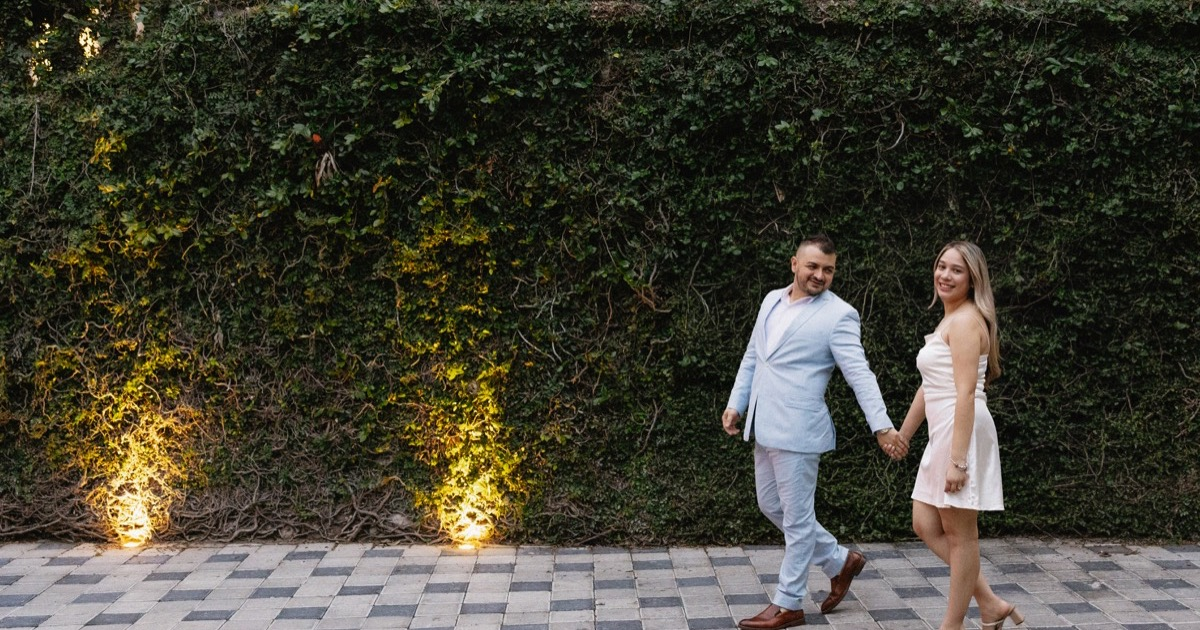
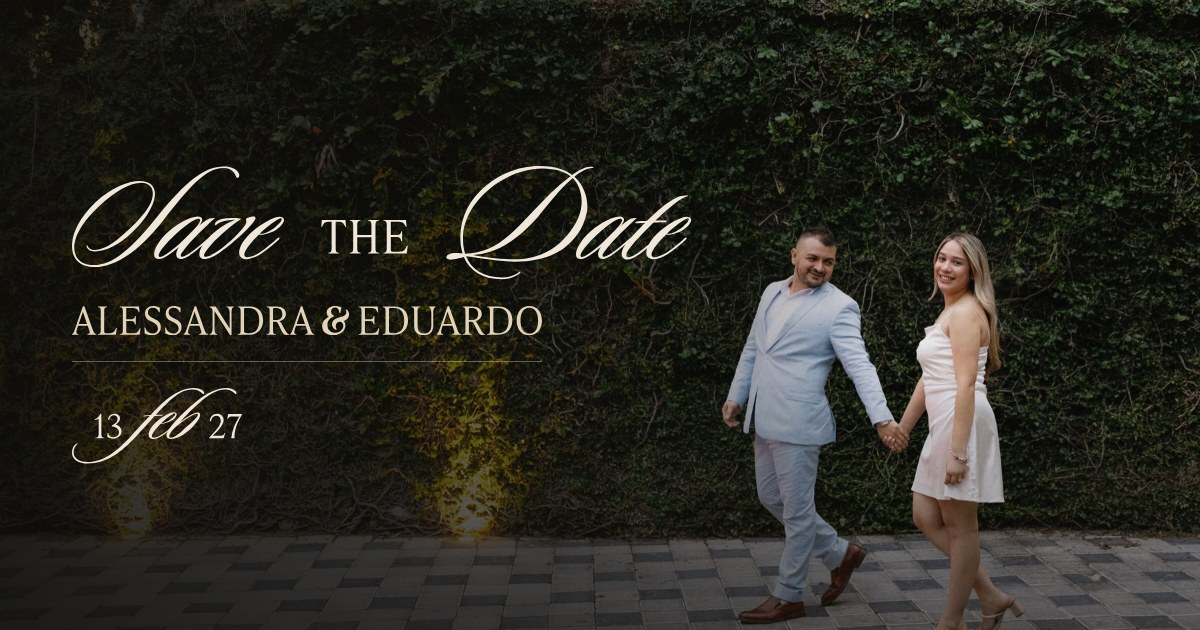
feat(boda): imagen para compartir con el Save the Date y entrada de «Así somos»
- public/fotos/compartir.jpg (1200×630): la foto de la portada con el Save
  the Date, los nombres y la fecha del diseñador. Sale de
  scripts/imagen-compartir.mjs; volver a correrlo si cambian.
- Así somos: título y fotos entran como tinta, una tras otra, con un
  destello que cruza cada foto.

diff --git a/boda/src/components/GaleriaHorizontal.jsx b/boda/src/components/GaleriaHorizontal.jsx
@@ -1,4 +1,4 @@
-import { useRef, useState } from 'react';
+import { useEffect, useRef, useState } from 'react';
 import { t } from '../lib/idioma';
 import Visor from './Visor';
 import { imagenAdaptable, conAncho, ANCHOS_GALERIA } from '../lib/fotos';
@@ -12,6 +12,17 @@ export default function GaleriaHorizontal({ titulo, fotos }) {
   const barra = useRef(null);
   const [abierta, setAbierta] = useState(null);
   const [extremos, setExtremos] = useState({ inicio: true, fin: false });
+  // Al llegar a la vista, las fotos entran como tinta y un destello las cruza
+  // (el mismo lenguaje del Save the Date). Una vez.
+  const seccion = useRef(null);
+  const [vista, setVista] = useState(false);
+  useEffect(() => {
+    const el = seccion.current;
+    if (!el || !('IntersectionObserver' in window)) { setVista(true); return undefined; }
+    const io = new IntersectionObserver(([e]) => { if (e.isIntersecting) { setVista(true); io.disconnect(); } }, { threshold: 0.3 });
+    io.observe(el);
+    return () => io.disconnect();
+  }, []);
 
   const alDeslizar = () => {
     const el = pista.current;
@@ -28,7 +39,7 @@ export default function GaleriaHorizontal({ titulo, fotos }) {
 
   const items = fotos.map((original) => ({ original, url: conAncho(original, 1800) }));
   return (
-    <section id="fotos" className="galeria-h">
+    <section id="fotos" ref={seccion} className={`galeria-h ${vista ? 'vista' : ''}`}>
       <div className="contenedor galeria-cabeza">
         <h2>{titulo}</h2>
         <div className="flechas">
@@ -38,7 +49,7 @@ export default function GaleriaHorizontal({ titulo, fotos }) {
       </div>
       <div className="pista" ref={pista} onScroll={alDeslizar}>
         {items.map((f, n) => (
-          <button type="button" key={f.original} className={`foto-h ${n % 3 === 1 ? 'ancha' : ''}`} onClick={() => setAbierta(n)} aria-label={t(`Ver foto ${n + 1}`, `View photo ${n + 1}`)}>
+          <button type="button" key={f.original} className={`foto-h ${n % 3 === 1 ? 'ancha' : ''}`} style={{ '--i': n }} onClick={() => setAbierta(n)} aria-label={t(`Ver foto ${n + 1}`, `View photo ${n + 1}`)}>
             <img {...imagenAdaptable(f.original, ANCHOS_GALERIA, '(min-width: 720px) 48vw, 88vw')} alt="" loading="lazy" decoding="async" />
             <span className="num">{String(n + 1).padStart(2, '0')}</span>
           </button>

diff --git a/boda/src/styles.css b/boda/src/styles.css
@@ -1337,3 +1337,19 @@ html.vt-sobre::view-transition-old(barra), html.vt-sobre::view-transition-old(ca
   .cierre.visto .cierre-trazo { -webkit-mask-image: linear-gradient(90deg, #000 calc(var(--tinta) - 14%), transparent var(--tinta)); mask-image: linear-gradient(90deg, #000 calc(var(--tinta) - 14%), transparent var(--tinta)); animation: tinta 1.7s cubic-bezier(.45, .05, .35, 1) .55s both; }
   .cierre.visto .cierre-destello { animation-delay: 3.2s; }
 }
+
+/* «Así somos»: el título y las fotos entran como tinta, una tras otra, y un
+   destello cruza cada foto (el lenguaje del Save the Date). */
+@media (prefers-reduced-motion: no-preference) {
+  .galeria-h .galeria-cabeza h2, .galeria-h .foto-h img {
+    -webkit-mask-image: linear-gradient(90deg, #000 calc(var(--barrido) - 30%), transparent var(--barrido));
+    mask-image: linear-gradient(90deg, #000 calc(var(--barrido) - 30%), transparent var(--barrido));
+  }
+  .galeria-h:not(.vista) .galeria-cabeza h2, .galeria-h:not(.vista) .foto-h img { --barrido: -10%; }
+  .galeria-h.vista .galeria-cabeza h2 { animation: tinta-entra 1.4s cubic-bezier(.45, .05, .3, 1) both; }
+  .galeria-h.vista .foto-h img { animation: tinta-entra 1.6s cubic-bezier(.45, .05, .3, 1) both, foto-asienta 2.4s cubic-bezier(.2, .7, .2, 1) both; animation-delay: calc(.25s + var(--i) * .22s); }
+  .galeria-h .foto-h::after { content: ''; position: absolute; inset: 0; pointer-events: none; background: linear-gradient(105deg, transparent 35%, oklch(0.97 0.03 85 / 0.38) 50%, transparent 65%); transform: translateX(-110%); }
+  .galeria-h.vista .foto-h::after { animation: foto-destello 1.3s cubic-bezier(.5, 0, .3, 1) both; animation-delay: calc(1.3s + var(--i) * .22s); }
+}
+@keyframes foto-asienta { from { transform: scale(1.08); filter: brightness(1.25) saturate(.8); } }
+@keyframes foto-destello { to { transform: translateX(110%); } }
